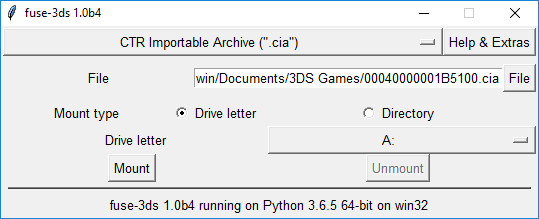
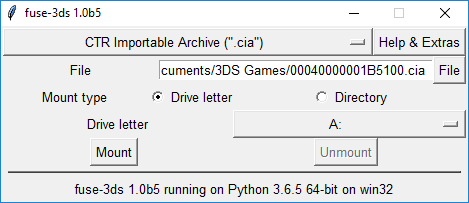
version 1.0b5; update main window screenshot

diff --git a/setup.py b/setup.py
@@ -17,7 +17,7 @@ if sys.platform not in {'win32', 'cygwin'}:
 
 setup(
     name='fuse-3ds',
-    version='1.0b5.dev1',
+    version='1.0b5',
     packages=['fuse3ds', 'fuse3ds.pyctr', 'fuse3ds.mount'],
     url='https://github.com/ihaveamac/fuse-3ds',
     license='MIT',

diff --git a/fuse3ds/__init__.py b/fuse3ds/__init__.py
@@ -1,4 +1,4 @@
 __author__    = 'ihaveamac'
 __copyright__ = 'Copyright (c) 2017-2018 Ian Burgwin'
 __license__   = 'MIT'
-__version__   = '1.0b5.dev1'
+__version__   = '1.0b5'
